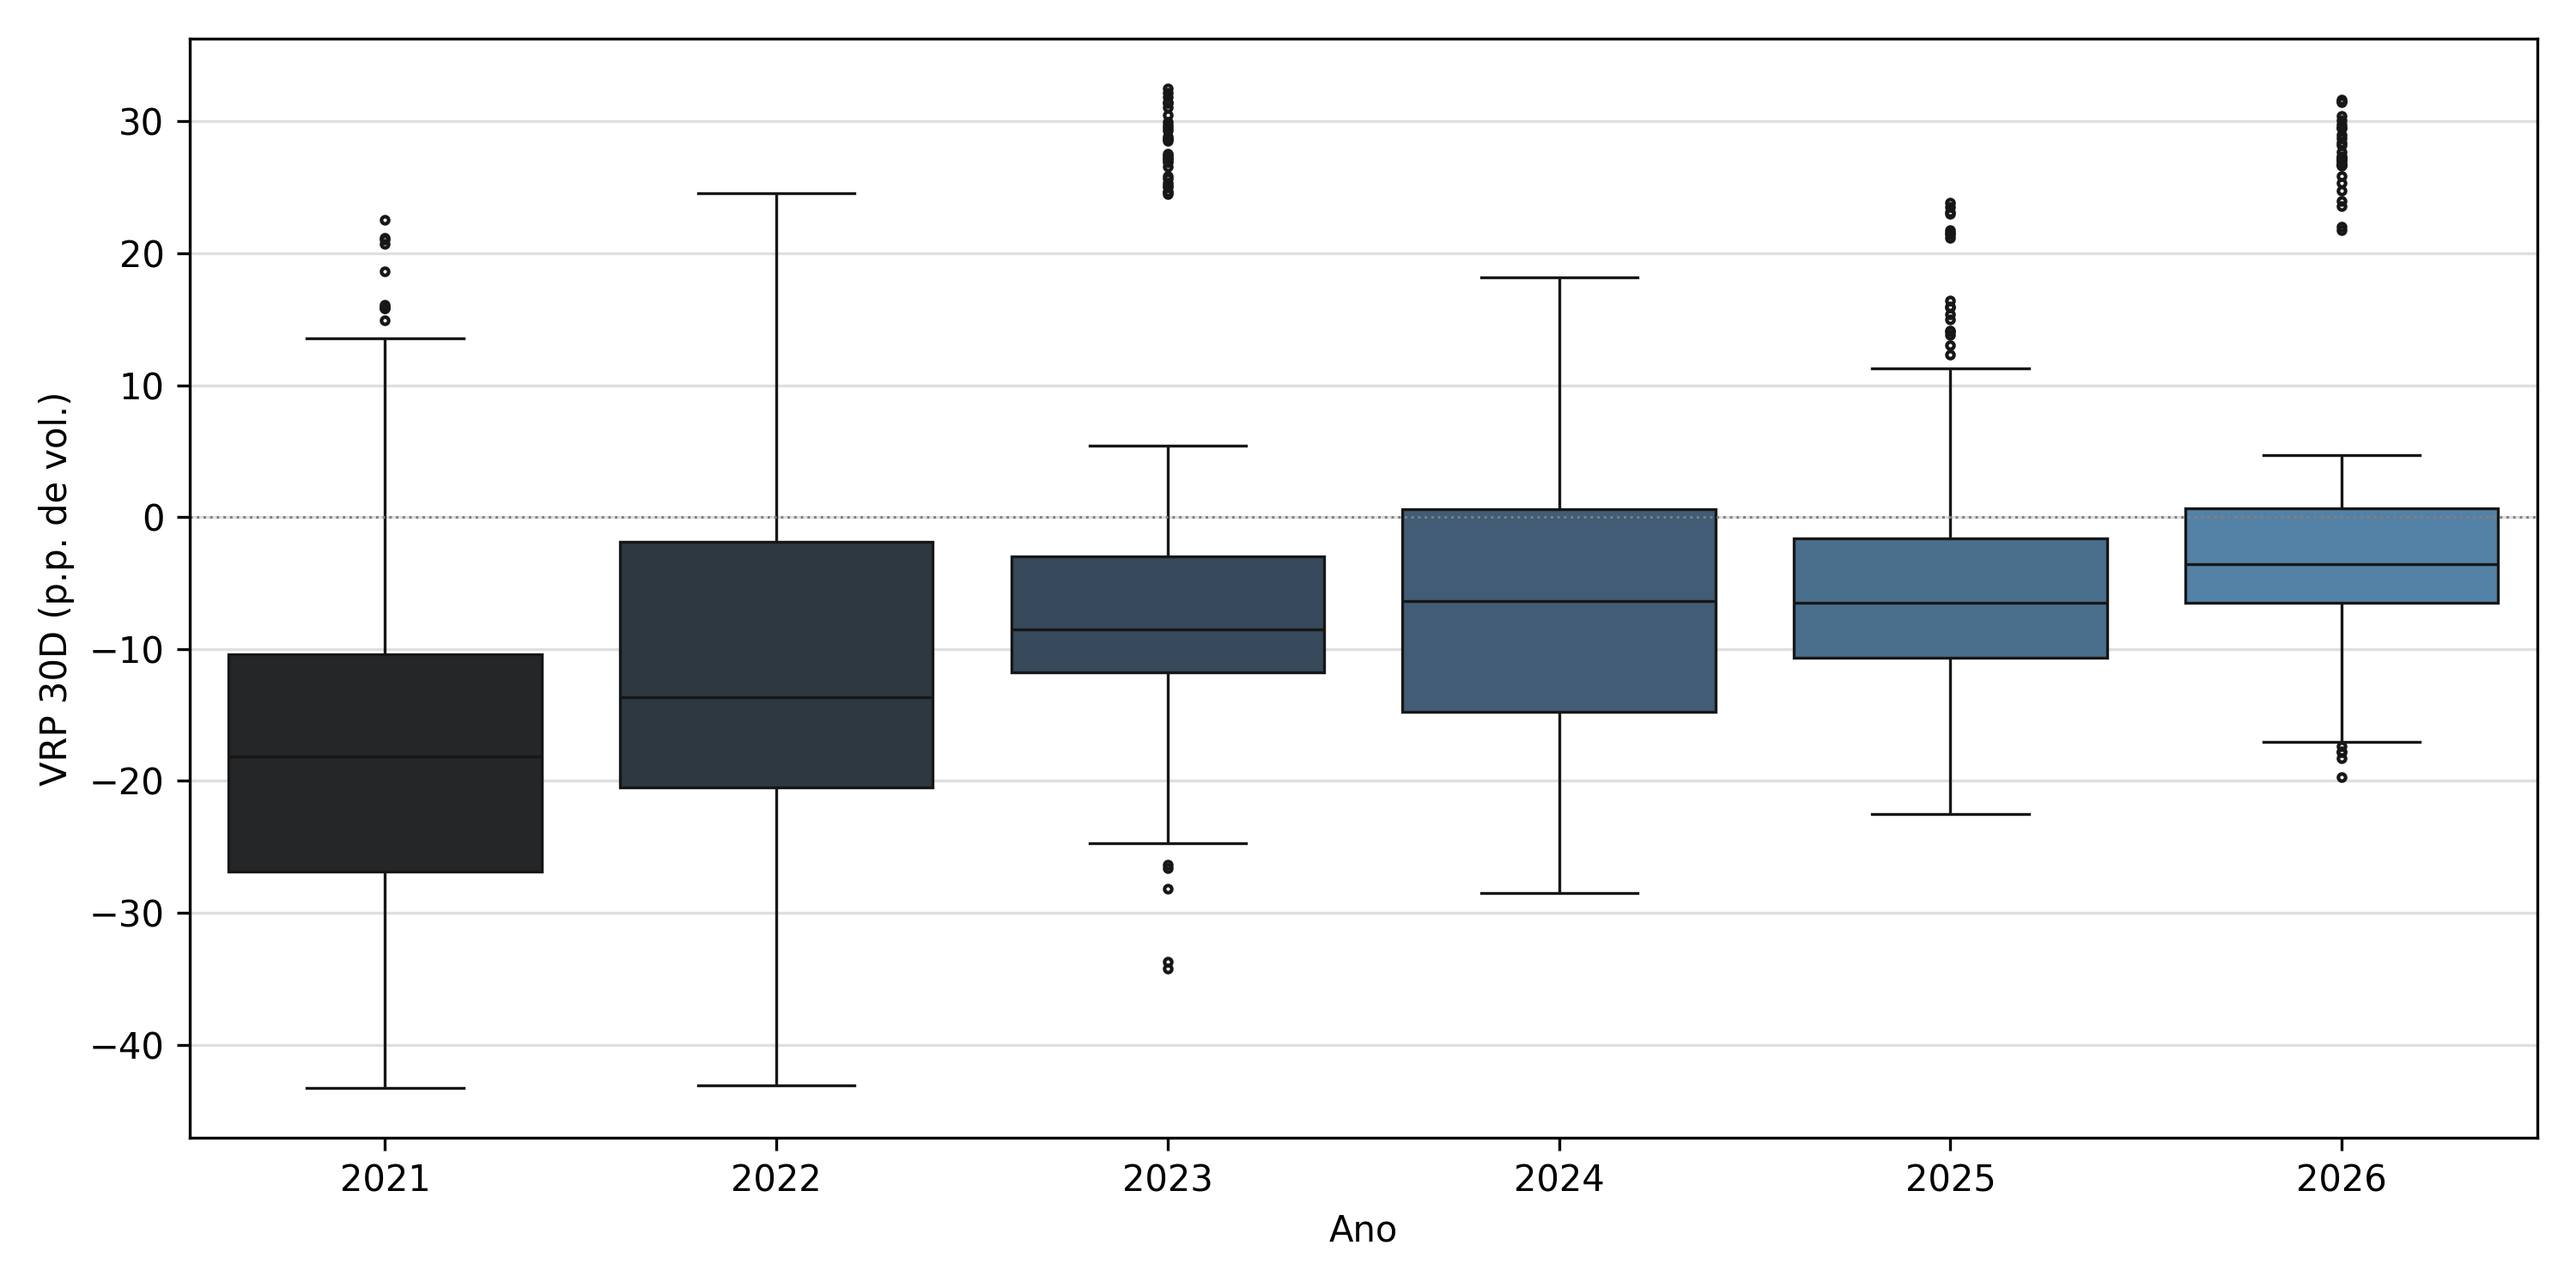
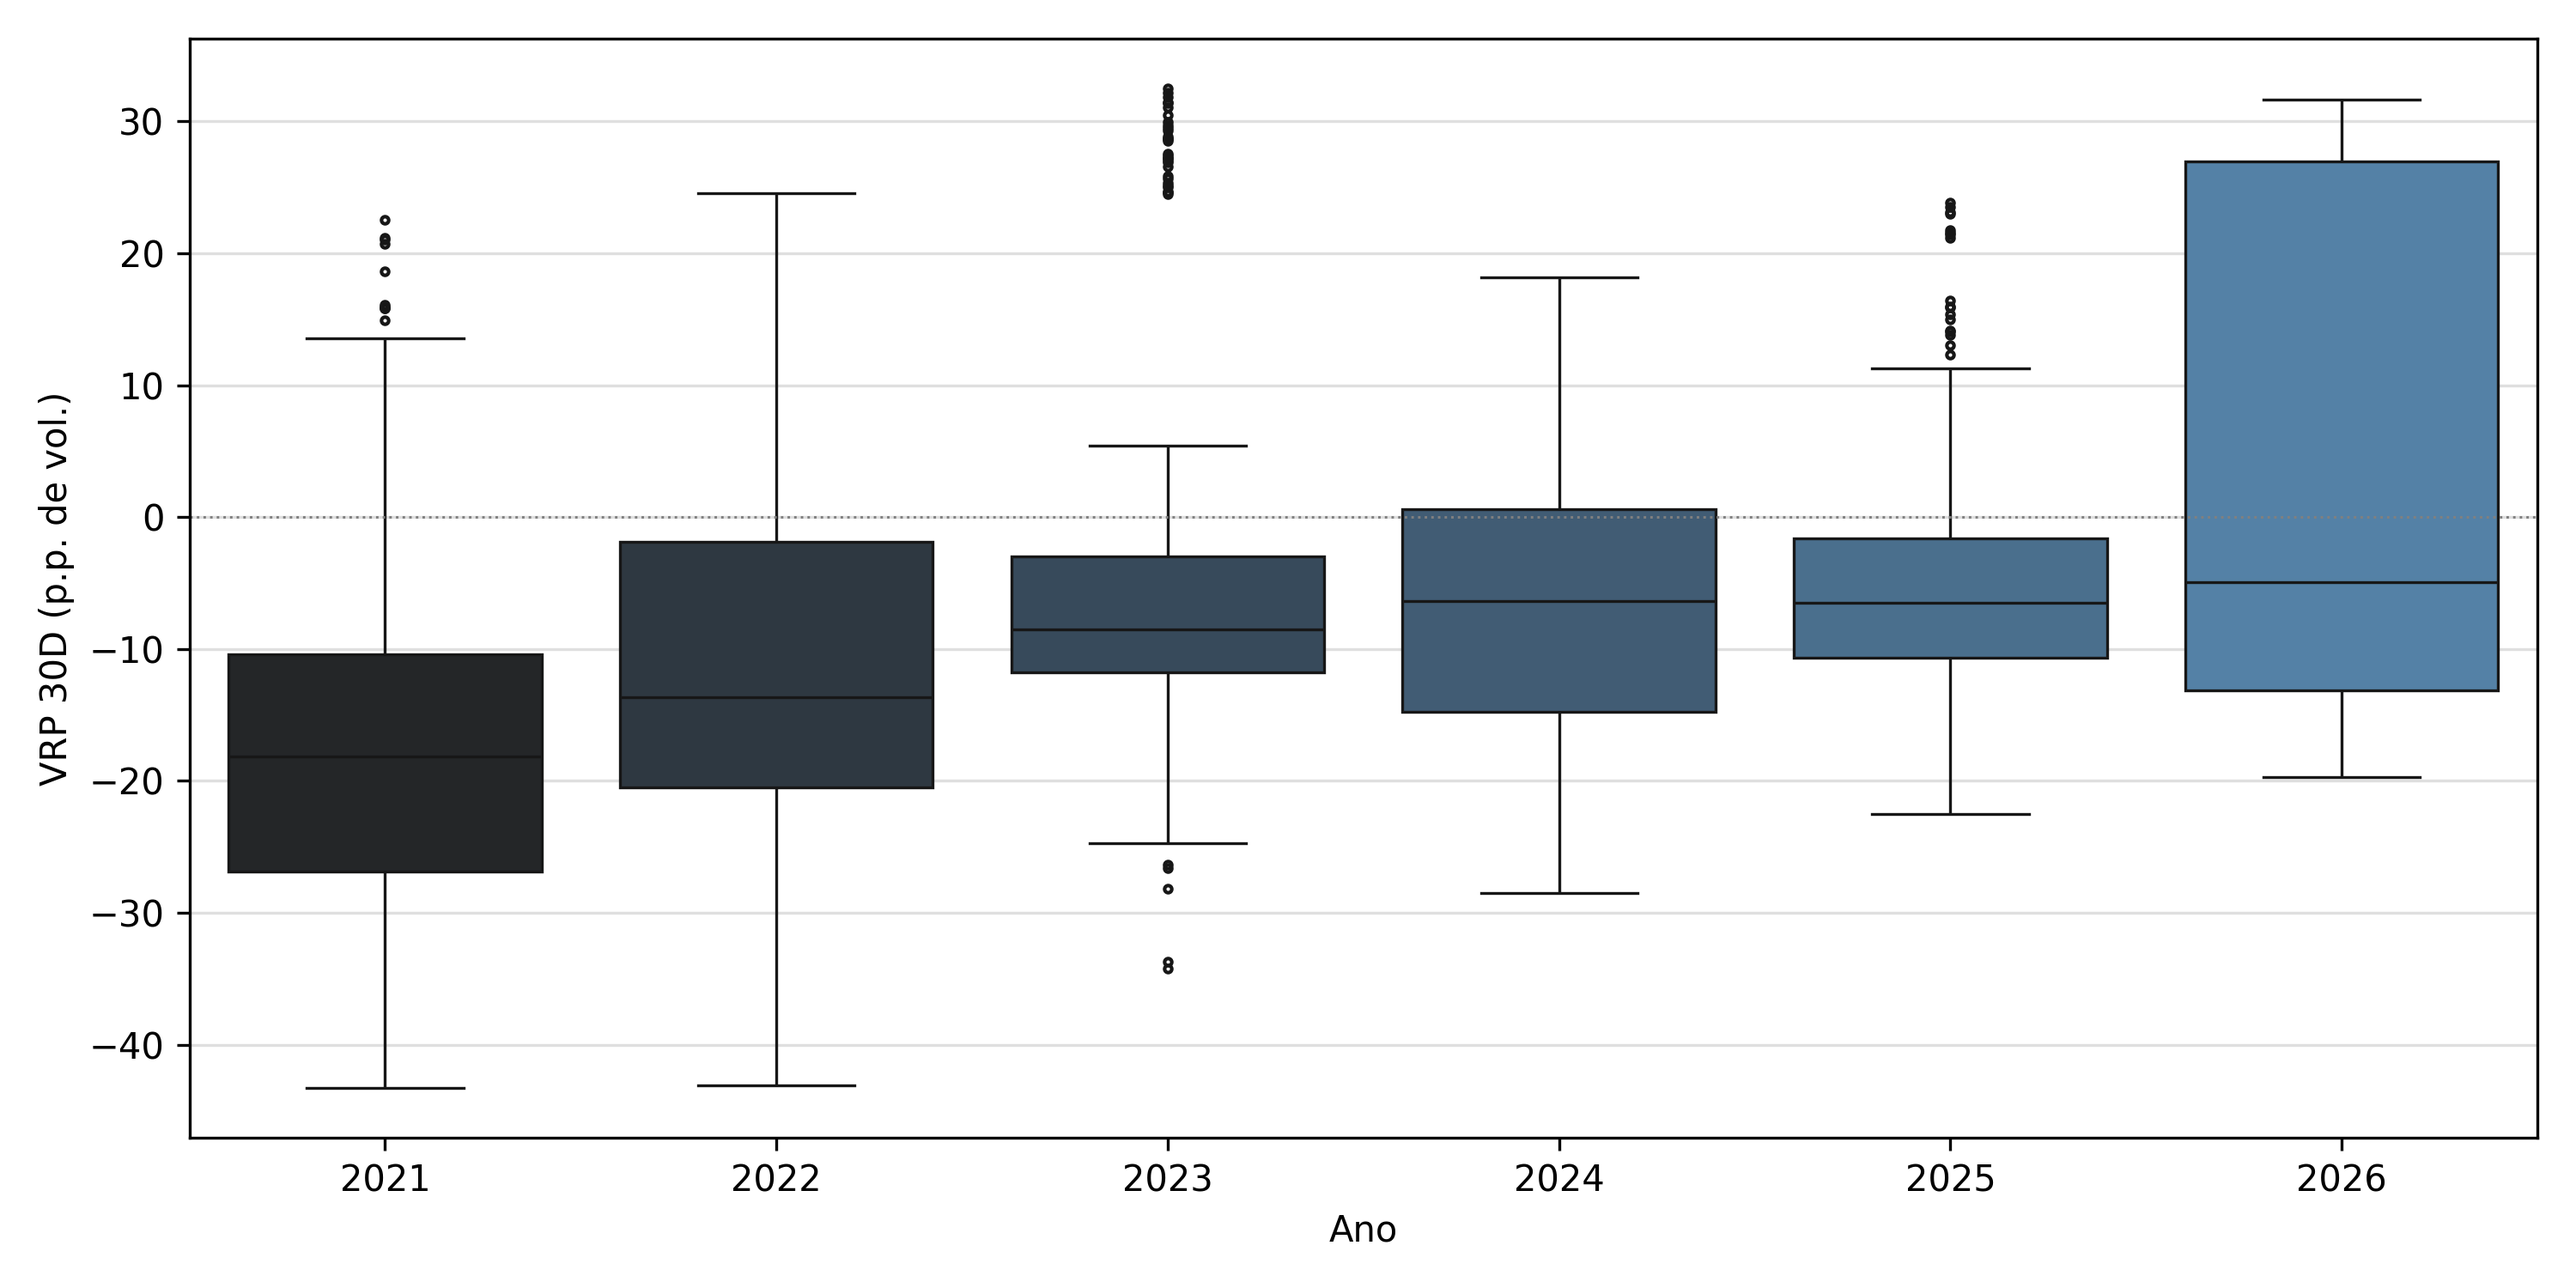
fix(cap3): alinha figuras a amostra canonica N=1775 (ate mar/2026), corrige 2026 como outlier de dispersao e modo -9
plot_vrp_timeseries.py lia vrp_30d_dataset.csv sem truncar (N=1.835, ate
mai/2026), 60 dias a mais que a fonte canonica vrp_with_targets.csv usada
pelas Tabelas 3.1/3.2 e pelo resto do texto (N=1.775, ate mar/2026). Boxplot
mostrava 2026 com N=122 e IQR=7,19 (aparentemente comprimido); truncado para
N=1.775, 2026 vira N=62 e IQR=40,11 -- o MAIOR de toda a serie, nao o menor.
Os 60 dias removidos (abr-mai/2026) estavam diluindo um pico agudo do BVRP
visivel no fim da serie temporal truncada.

- plot_vrp_timeseries.py: trunca para date <= 2026-03-03 apos carregar,
  alinhando com a amostra canonica.
- Secao 3.3: pico do KDE -7,5 -> -9 (recalculado na amostra truncada;
  skew e curtose ja reportados continuam corretos, variacao minima).
- Secao 3.4: paragrafo reescrito -- 2021/2022 seguem como anos de maior
  dispersao "normal" (IQR ~16/19), mas 2026 (inicio, N=62) passa a ser
  destacado como outlier de dispersao (nao de compressao), com referencia
  cruzada ao pico visivel na Fig. 3.1.
- Figuras regeneradas: vrp_timeseries.png, vrp_histogram_kde.png,
  vrp_boxplot.png, todas agora terminando em mar/2026.

Nao pushado -- aguardando revisao antes do push final.

Changed region(s): [[0.837, 0.0613, 0.992, 0.3987], [0.837, 0.4293, 0.992, 0.6133]]

diff --git a/chapters/cap3_dados.tex b/chapters/cap3_dados.tex
@@ -107,9 +107,9 @@ características marcantes. Primeira, a presença de assimetria positiva
 (coeficiente de assimetria de $+0{,}59$) e caudas moderadamente pesadas
 (excesso de curtose de $+0{,}95$), afastando-se da hipótese de normalidade.
 Segunda, a distribuição é unimodal, com o modo concentrado em torno de
-$-7{,}5$ pontos percentuais de volatilidade anualizada, consistente com a
-média amostral negativa ($-8{,}25$ p.p.) e com o predomínio de um regime em
-que a volatilidade implícita supera a realizada.
+$-9$ pontos percentuais de volatilidade anualizada, consistente com a média
+amostral negativa ($-8{,}25$ p.p.) e com o predomínio de um regime em que a
+volatilidade implícita supera a realizada.
 
 Embora unimodal, a distribuição exibe assimetria positiva e uma cauda
 direita não desprezível: a maior parte das observações concentra-se em
@@ -146,19 +146,21 @@ Figura~\ref{fig:vrp_boxplot} apresenta os resultados desse agrupamento anual.
 Os resultados indicam que o prêmio de risco de volatilidade não é homogêneo
 ao longo do tempo. O prêmio é negativo em todos os anos da amostra --- a
 mediana anual permanece abaixo de zero de 2021 a 2026 ---, confirmando a
-persistência do prêmio de seguro. Sua magnitude, contudo, atenua-se ao longo
-do período: a mediana passa de aproximadamente $-18$ p.p. em 2021 para cerca
-de $-4$ p.p. na fração inicial de 2026, indicando compressão gradual do
-prêmio à medida que o mercado de opções de Bitcoin amadurece. A dispersão
-não segue padrão monotônico: os anos de 2021 e 2022 exibem a maior
-variabilidade (amplitude interquartílica próxima de $17$ e $19$ p.p.,
-respectivamente), refletindo a turbulência do mercado nesse período, ao passo
-que 2023, 2025 e a fração de 2026 apresentam distribuições mais comprimidas.
-O ano de 2024 constitui exceção parcial, com dispersão novamente elevada,
-possivelmente associada ao reposicionamento do mercado após a aprovação dos
-ETFs \textit{spot} em janeiro daquele ano. Essa heterogeneidade sugere que
-modelos com parâmetros constantes podem ser insuficientes para capturar
-plenamente a dinâmica do BVRP, justificando a adoção de abordagens que
+persistência do prêmio de seguro, e sua mediana atenua-se ao longo do período,
+passando de aproximadamente $-18$ p.p. em 2021 para cerca de $-5$ p.p. no
+início de 2026. A dispersão, contudo, não acompanha essa tendência de forma
+monotônica. Os anos de 2021 e 2022 exibem elevada variabilidade (amplitude
+interquartílica próxima de $16$ e $19$ p.p., respectivamente), refletindo a
+turbulência do mercado nesse período, enquanto 2023 e 2025 apresentam
+distribuições mais comprimidas. O ano de 2024 constitui exceção, com dispersão
+novamente elevada, possivelmente associada ao reposicionamento do mercado após
+a aprovação dos ETFs \textit{spot} em janeiro daquele ano. Já o início de 2026
+--- período parcial cobrindo apenas os primeiros meses do ano ($N = 62$) ---
+destaca-se pela maior dispersão de toda a amostra, refletindo um episódio agudo
+de estresse no primeiro trimestre, visível como um pico pronunciado do BVRP ao
+final da série temporal (Figura~\ref{fig:vrp_timeseries}). Essa heterogeneidade
+sugere que modelos com parâmetros constantes podem ser insuficientes para
+capturar plenamente a dinâmica do BVRP, justificando a adoção de abordagens que
 permitam variação temporal e efeitos de regime nos capítulos subsequentes.
 
 % =========================================================

diff --git a/code/plot_vrp_timeseries.py b/code/plot_vrp_timeseries.py
@@ -17,6 +17,13 @@ def main():
     df["date"] = pd.to_datetime(df["date"])
     df = df.sort_values("date").reset_index(drop=True)
 
+    # Trunca para a amostra canonica (mar/2021-mar/2026, N=1.775), igual a
+    # vrp_with_targets.csv e as Tabelas 3.1/3.2. vrp_30d_dataset.csv tem 60
+    # dias a mais (ate mai/2026) que ainda nao entraram na fonte canonica.
+    AMOSTRA_FIM = "2026-03-03"
+    df = df[df["date"] <= AMOSTRA_FIM].reset_index(drop=True)
+    print(f"Truncado para amostra canonica: N={len(df)}  {df['date'].min().date()} a {df['date'].max().date()}")
+
     figs_dir = os.path.join(base_dir, "figs", "cap3")
     os.makedirs(figs_dir, exist_ok=True)
 
